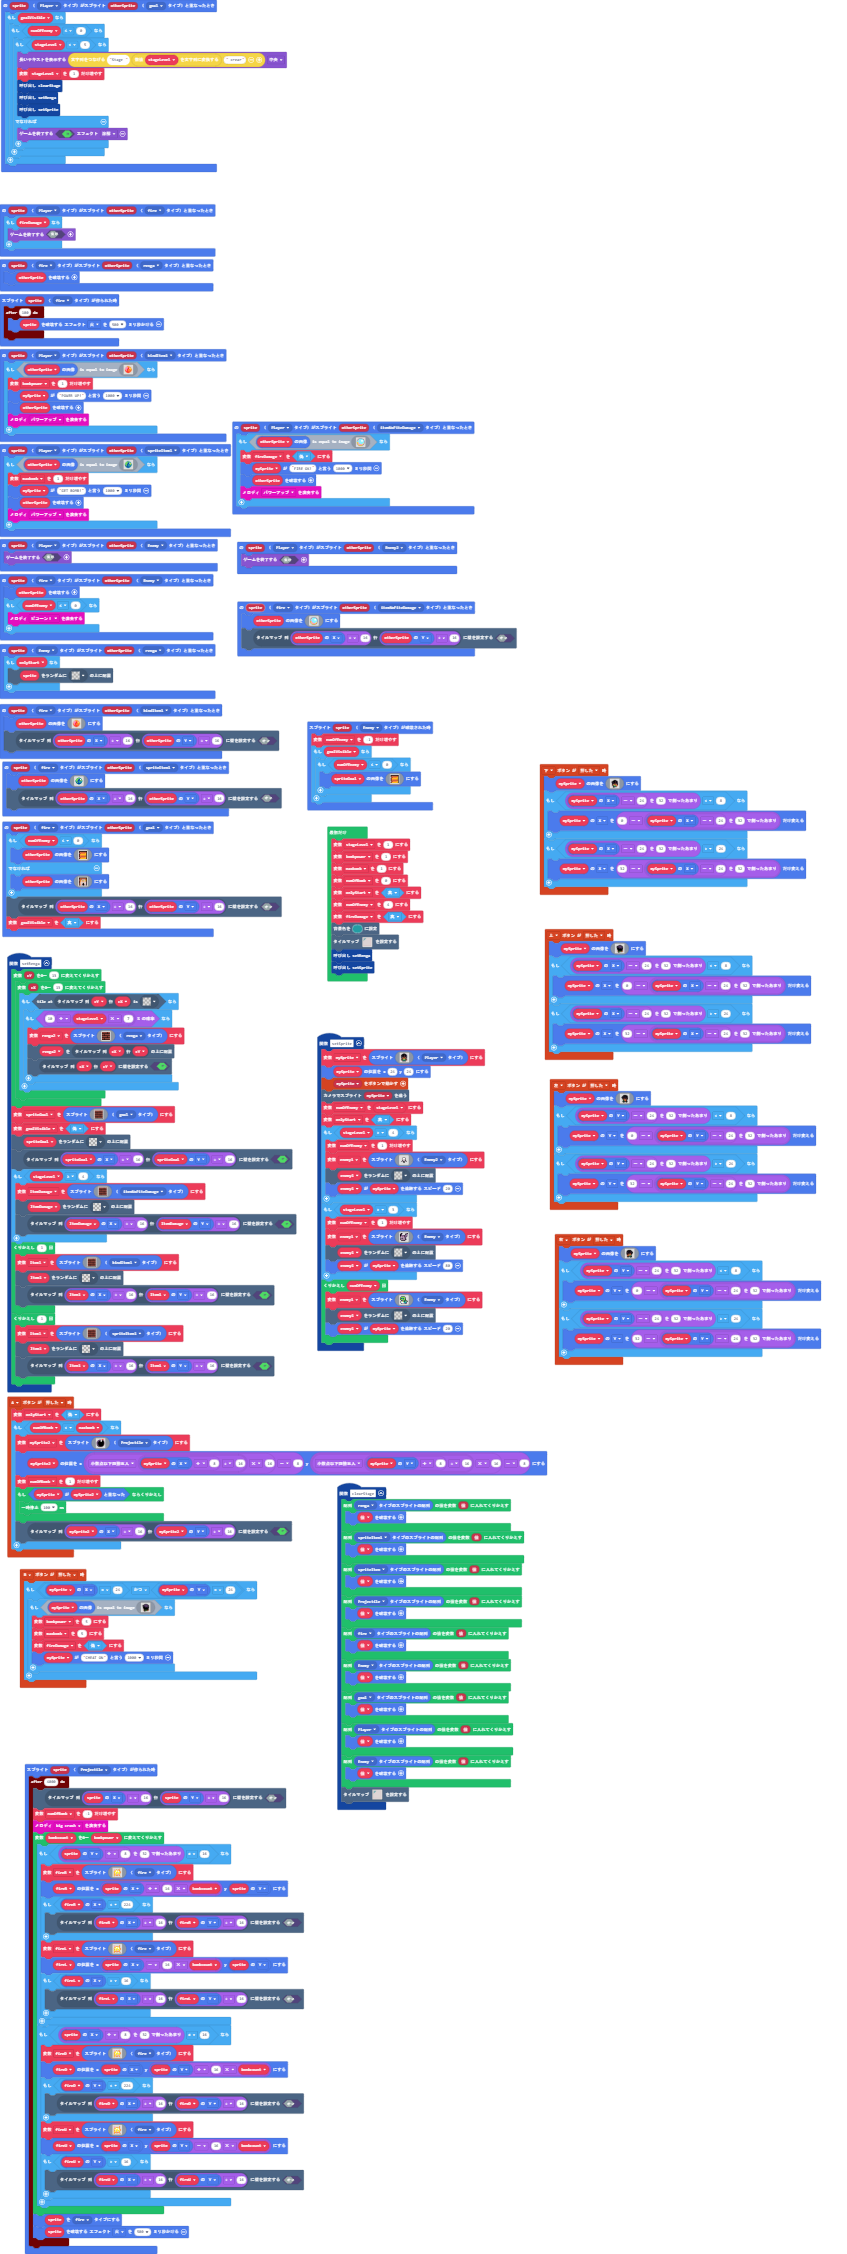
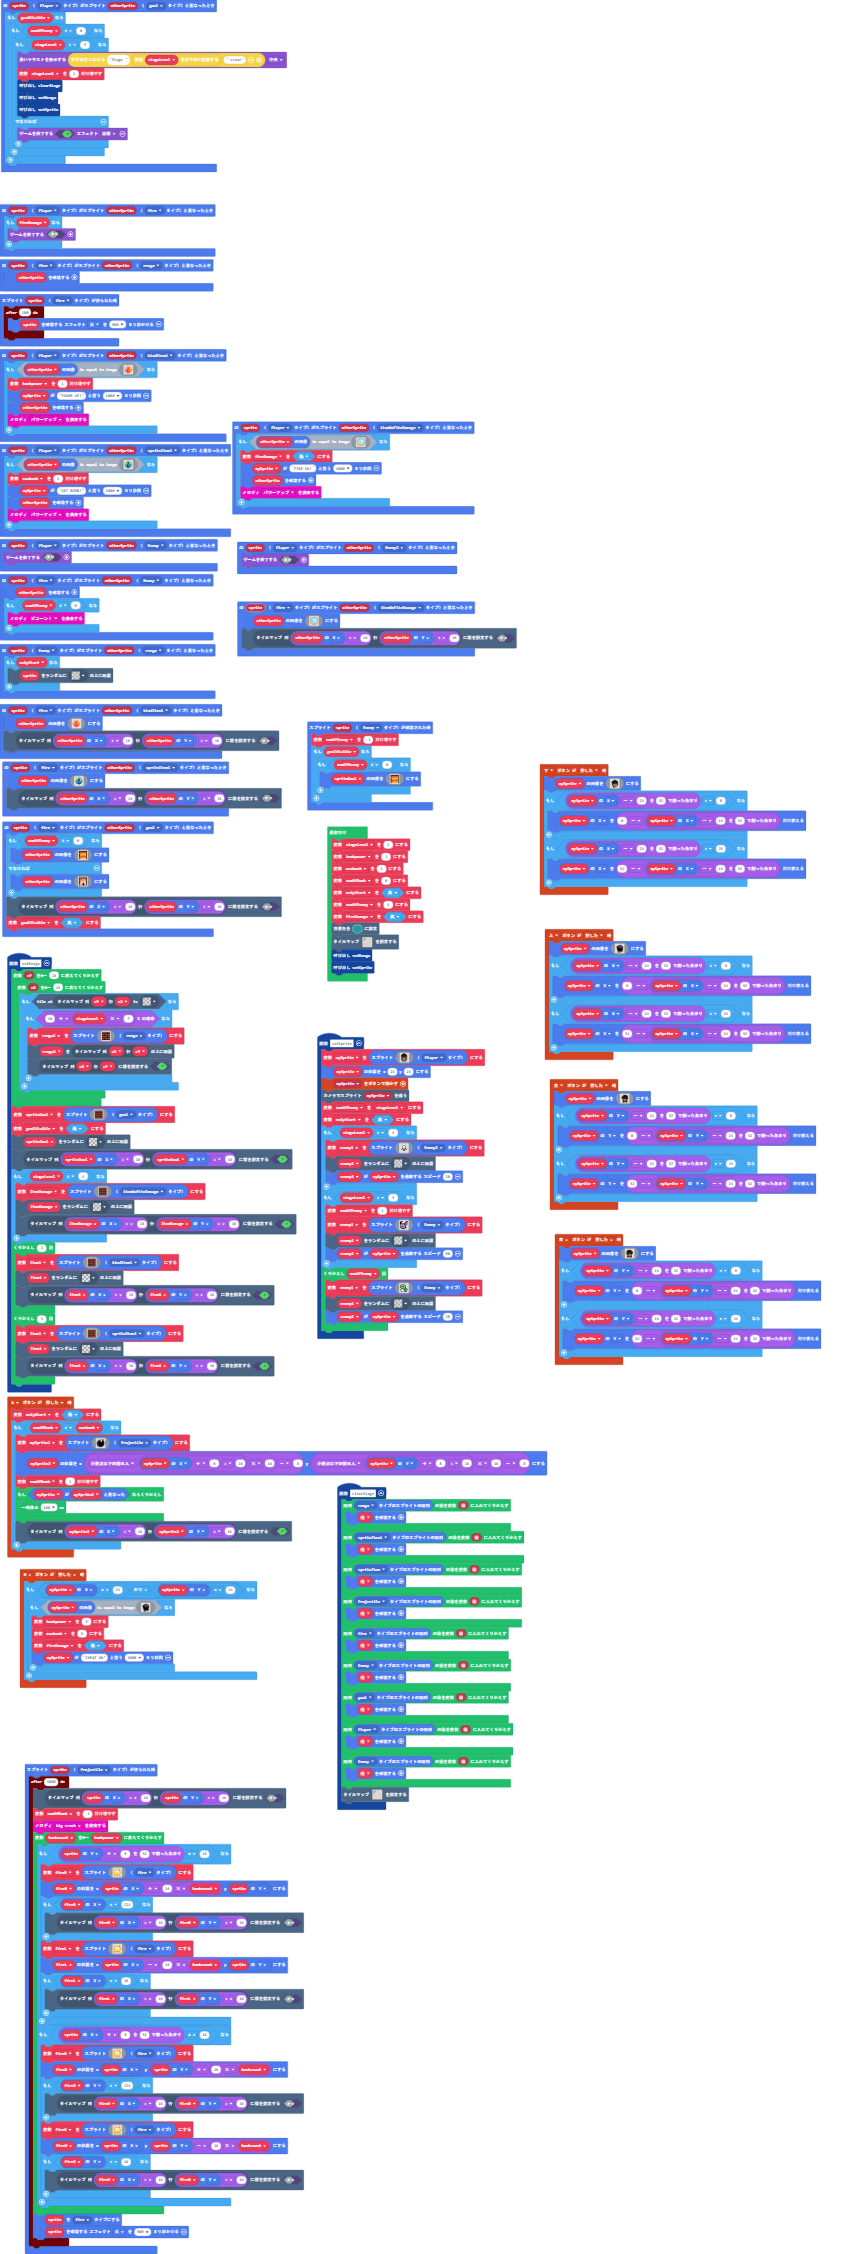
更新 main.blocks, main.ts

Changed region(s): [[0.3684, 0.4969, 0.5832, 0.6211]]

diff --git a/main.ts b/main.ts
@@ -113,7 +113,6 @@ function setSprite () {
     numOfEnemy = stageLevel
     onlyStart = true
     if (stageLevel > 4) {
-        numOfEnemy += 1
         enemy1 = sprites.create(img`
             ........................
             ........................
